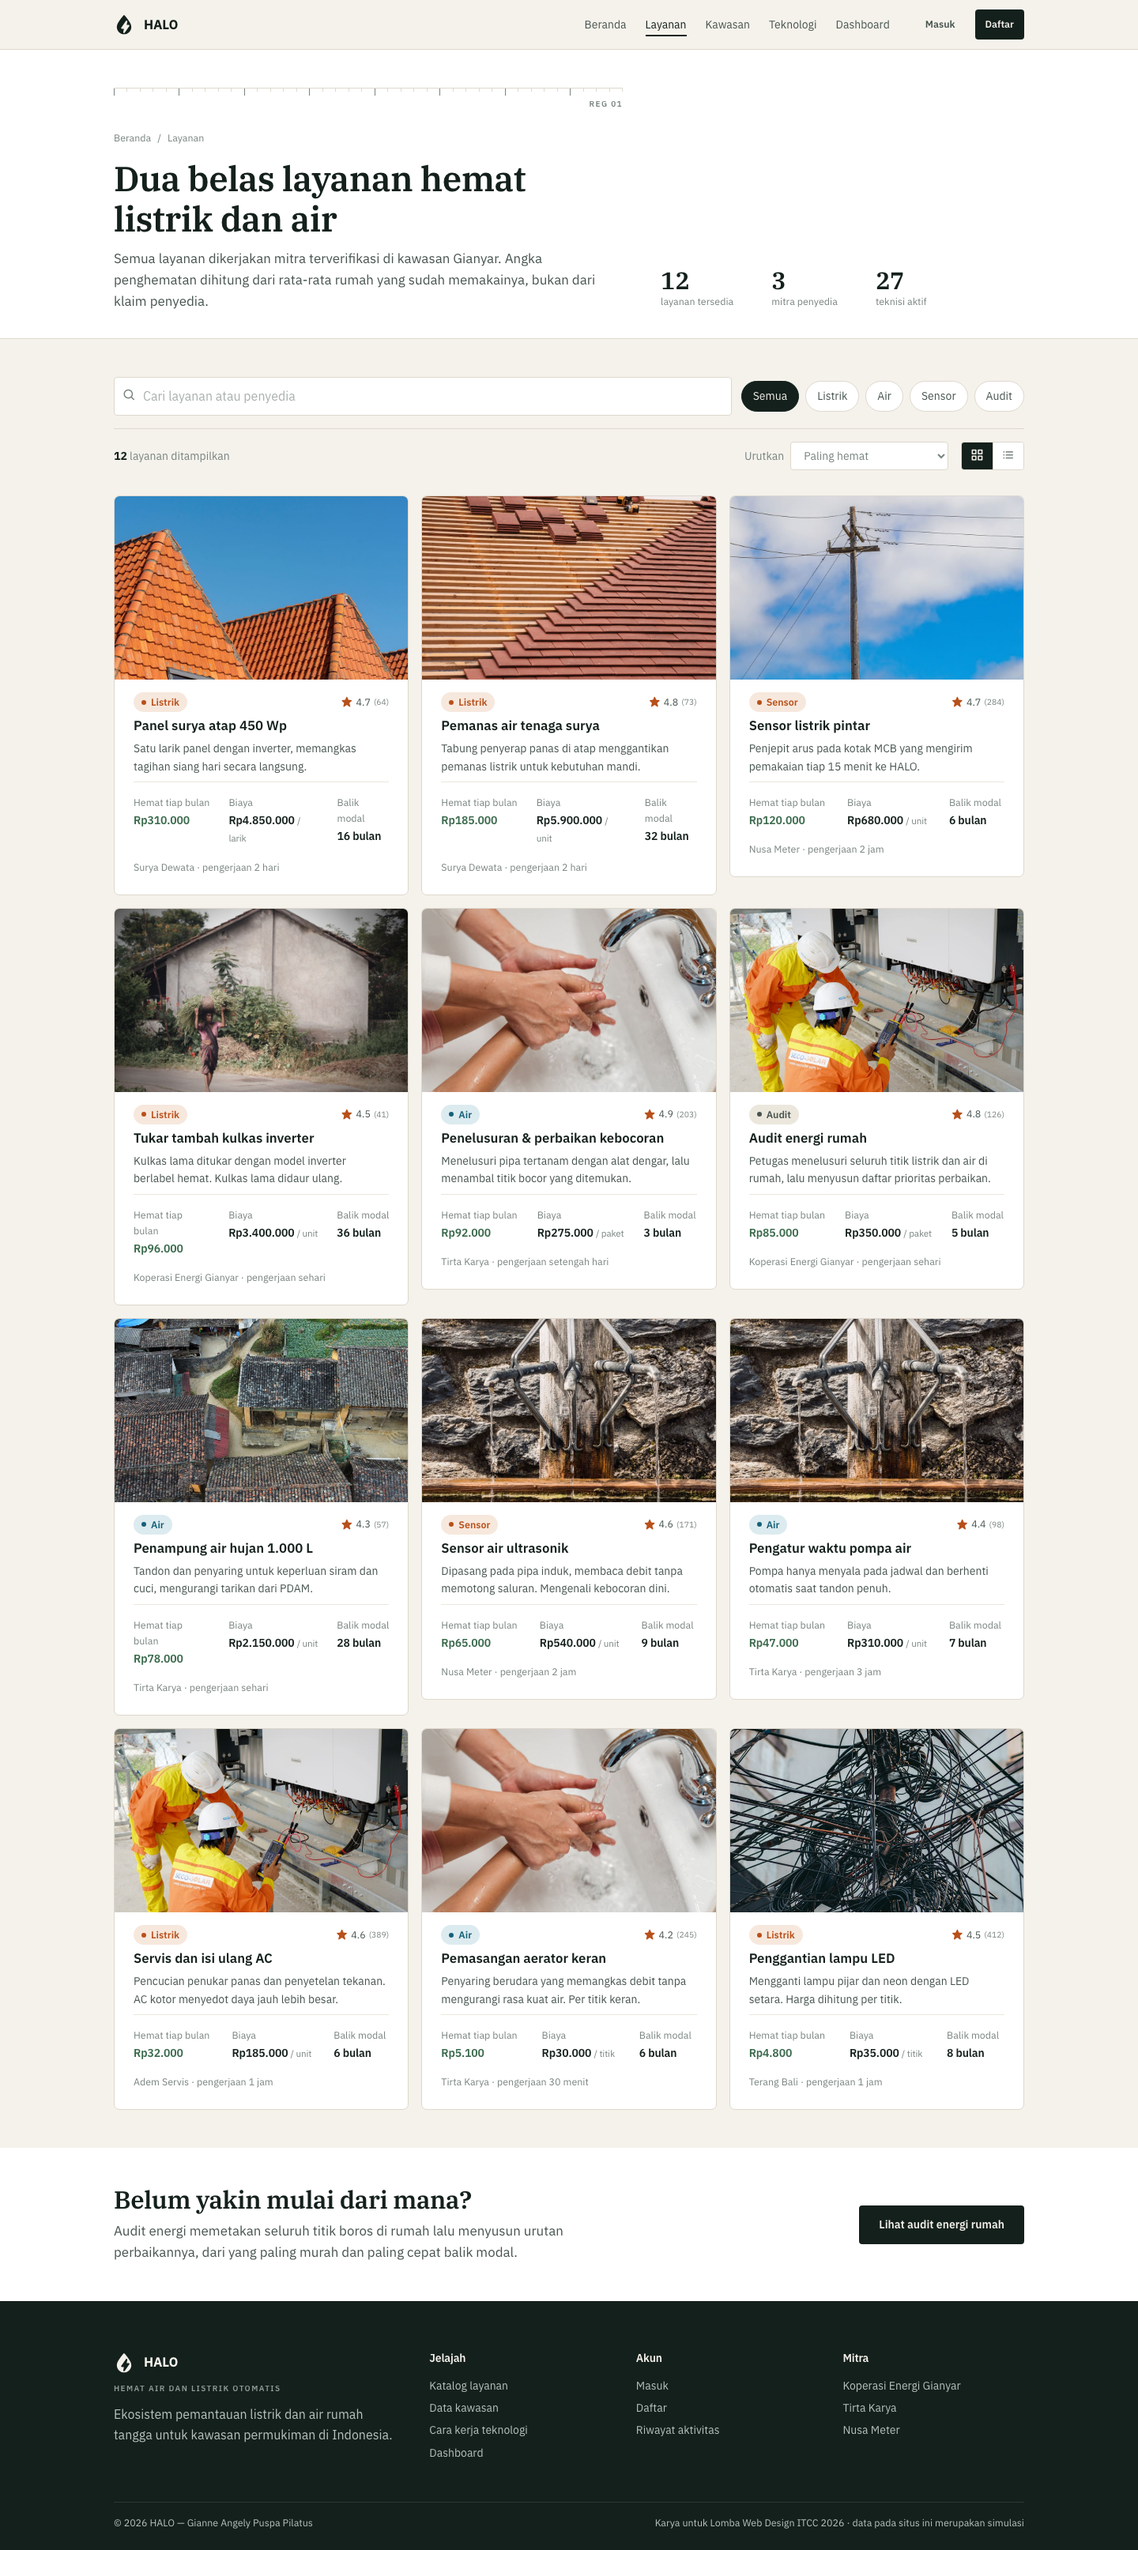
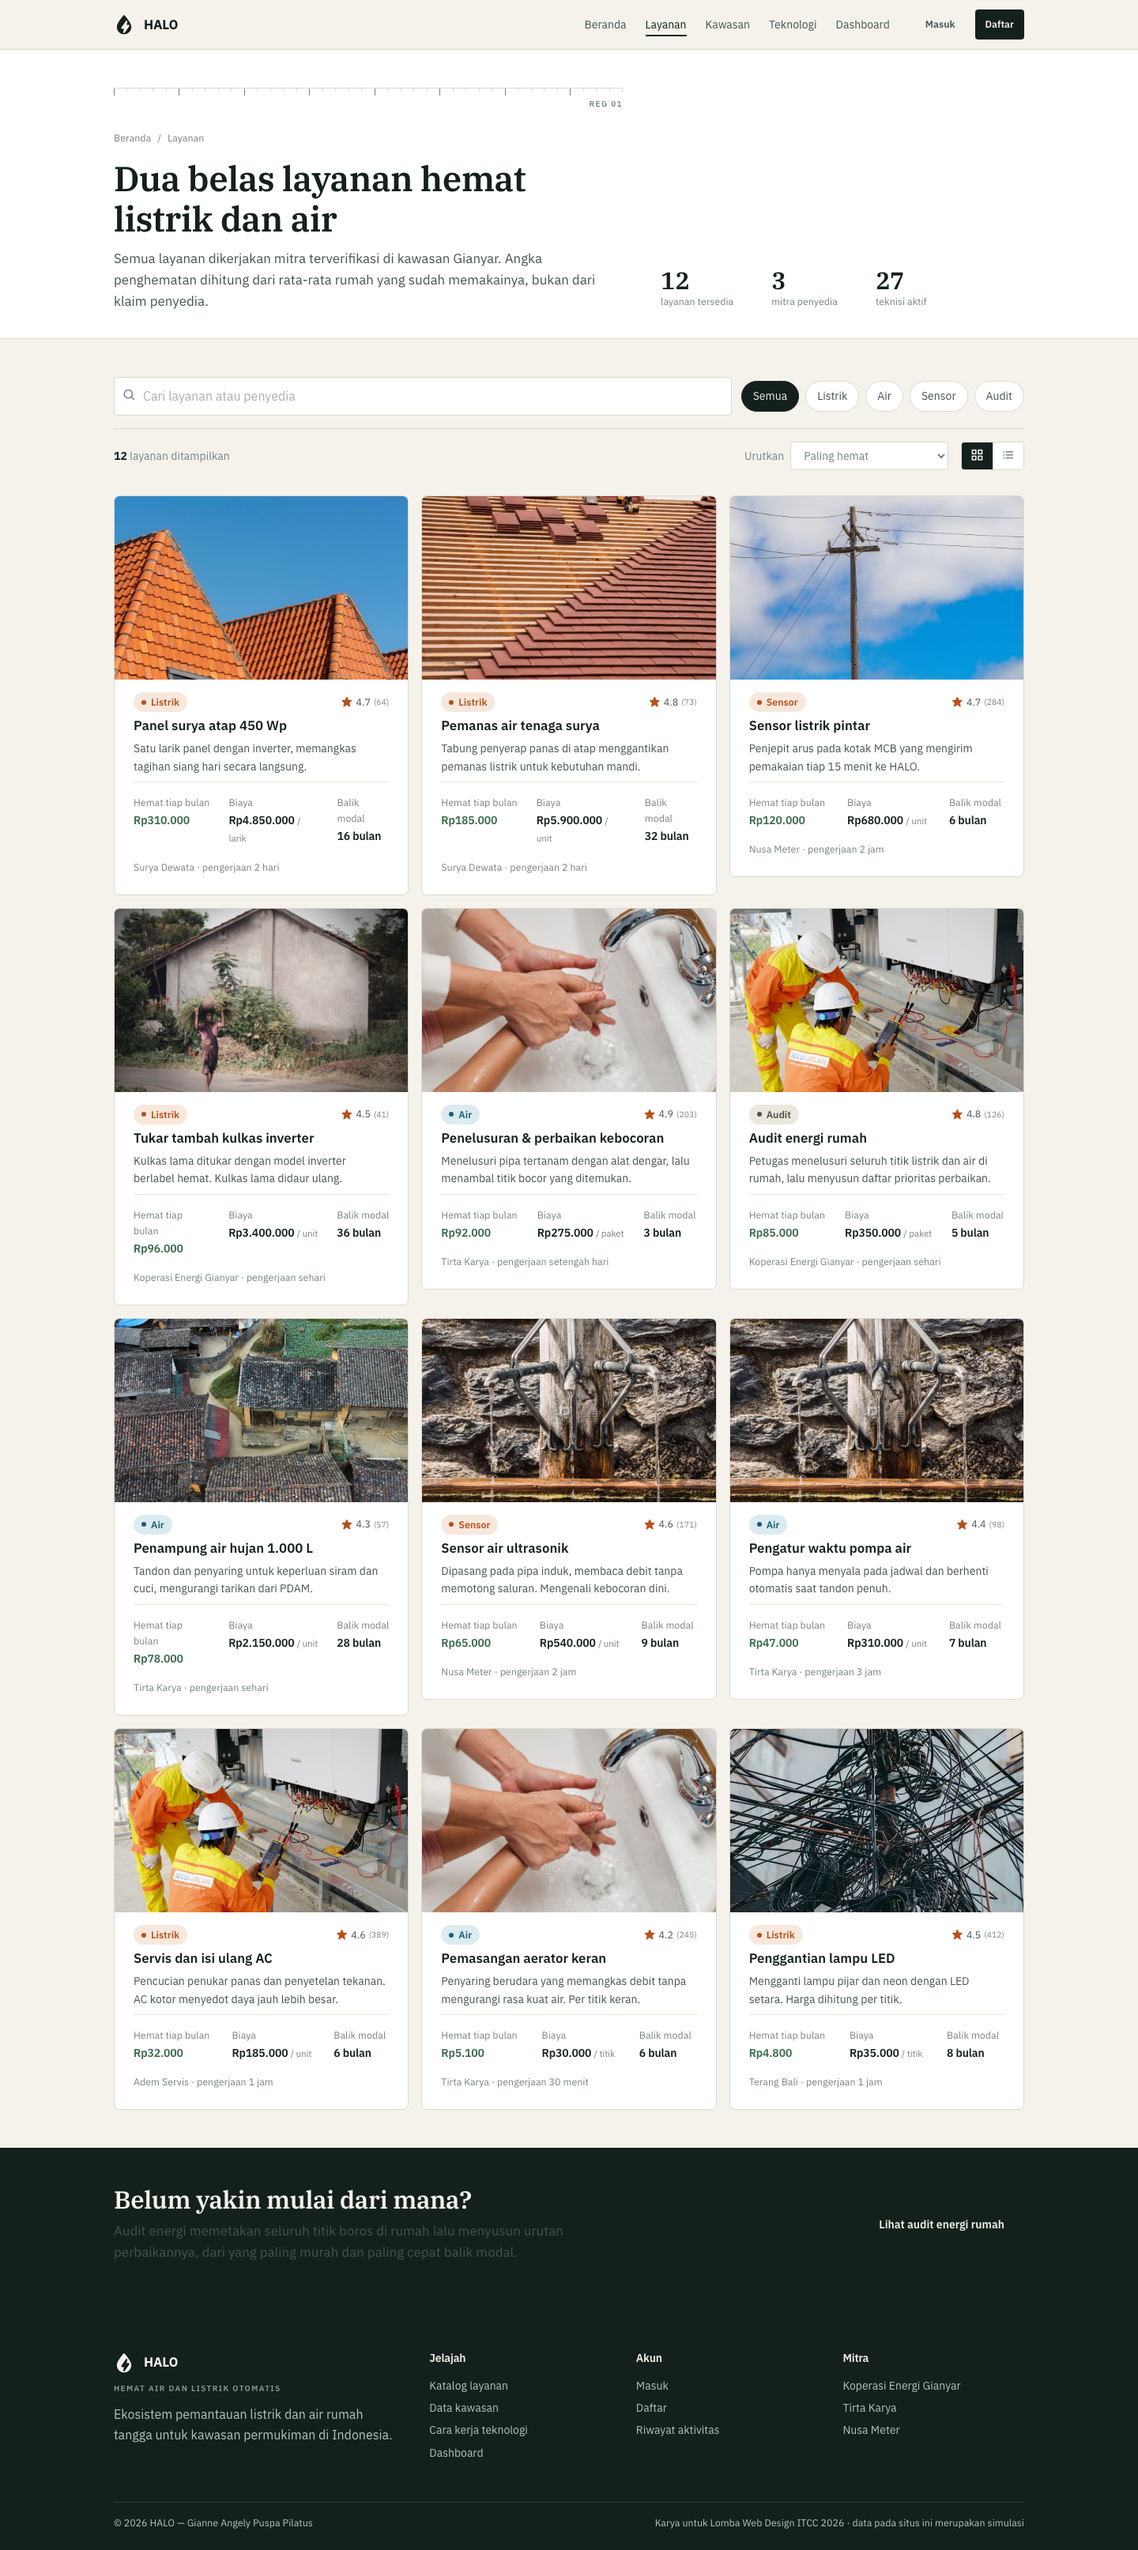
Empat penajaman: cetak, kontras halaman dalam, simulator, aksesibilitas
Cetak: dua bug nyata ditemukan lewat uji cetak ke PDF. Tautan lompat
ikut tercetak sebagai tombol hitam, dan kalimat 'klik satu baris' yang
tidak ada artinya di kertas. Keduanya sekarang disembunyikan, dan
seluruh rincian jejak dibuka otomatis sehingga cetakan berisi riwayat
utuh, bukan cuma judul barisnya.

Kontras: dashboard, riwayat, layanan, dan detail masing-masing mendapat
satu bagian gelap. Sebelumnya lima halaman rata krem dari atas sampai
bawah sementara beranda punya dua titik kontras.

Simulator: dipindah ke latar gelap dan balik modal dinaikkan jadi angka
utama, karena itu satu-satunya angka yang dipakai orang memutuskan.
Sekalian membetulkan angka yang patah di tengah akibat
overflow-wrap: anywhere.

Aksesibilitas: kotak slider dari 4px jadi 24px supaya gampang dikenai
jari, tombol pengurut tabel dinaikkan ke 26px, urutan judul katalog
diperbaiki, dan tautan galeri diberi label.

Changed region(s): [[0.0, 0.8367, 1.0, 0.9297]]

diff --git a/WD_MAHASISWA_Gianne Angely Puspa Pilatus_ITCC 2026/Gianne Angely Puspa Pilatus_Website/css/detail.css b/WD_MAHASISWA_Gianne Angely Puspa Pilatus_ITCC 2026/Gianne Angely Puspa Pilatus_Website/css/detail.css
@@ -31,11 +31,21 @@
 .geser-bantu { font-size: var(--fs-xs); color: var(--ink-3); margin-top: 6px; }
 
 /* Pengatur geser digambar sendiri supaya seragam antar peramban */
-input[type="range"] { -webkit-appearance: none; appearance: none; width: 100%; height: 4px; background: var(--line); border-radius: 2px; }
+/* Kotak slider dibuat setinggi 24px supaya gampang dikenai jari,
+   sementara relnya tetap tipis lewat penggayaan track. */
+input[type="range"] {
+  -webkit-appearance: none; appearance: none;
+  width: 100%; height: 24px; background: transparent; cursor: pointer;
+}
+input[type="range"]::-webkit-slider-runnable-track {
+  height: 4px; background: var(--line); border-radius: 2px;
+}
+input[type="range"]::-moz-range-track { height: 4px; background: var(--line); border-radius: 2px; }
 input[type="range"]::-webkit-slider-thumb {
   -webkit-appearance: none; appearance: none; width: 18px; height: 18px; border-radius: 50%;
   background: var(--ink); border: 3px solid var(--surface); box-shadow: var(--shadow-2); cursor: grab;
   transition: transform .13s var(--ease);
+  margin-top: -7px;              /* menengahkan bulatan pada rel 4px */
 }
 input[type="range"]::-webkit-slider-thumb:hover { transform: scale(1.15); }
 input[type="range"]::-webkit-slider-thumb:active { cursor: grabbing; }
@@ -94,7 +104,9 @@ input[type="range"]:focus-visible { outline-offset: 6px; }
 
 /* Angka hasil simulasi bisa jadi panjang (jutaan rupiah),
    jadi ukurannya menyesuaikan lebar kotak. */
-.sim-angka .panel-angka { font-size: clamp(1.15rem, 1rem + .9vw, 1.5rem); overflow-wrap: anywhere; }
+/* Angka tidak boleh patah di tengah. Kolomnya yang menyesuaikan,
+   bukan angkanya yang dipotong. */
+.sim-angka .panel-angka { font-size: clamp(1.05rem, .95rem + .5vw, 1.35rem); white-space: nowrap; }
 .sim-angka .panel-nama { min-height: 2.2em; display: flex; align-items: flex-start; }
 
 /* Kolom kanan jauh lebih pendek daripada kolom kiri, jadi dibuat
@@ -106,3 +118,33 @@ input[type="range"]:focus-visible { outline-offset: 6px; }
   .kolom-berat > .sisi { align-self: stretch; }
   .sisi-lekat { position: sticky; top: 78px; }
 }
+
+/* ---------- Simulator versi gelap ----------
+   Balik modal dijadikan angka utama karena itu satu-satunya angka
+   yang benar-benar dipakai orang untuk memutuskan. */
+.simulasi .geser label { color: #c3ccc8; }
+.simulasi .geser label strong { color: var(--paper); }
+.simulasi .geser-bantu, .simulasi .sim-catatan { color: #7d8b85; }
+.simulasi input[type="range"]::-webkit-slider-runnable-track { background: #2c3b36; }
+.simulasi input[type="range"]::-moz-range-track { background: #2c3b36; }
+.simulasi input[type="range"]::-webkit-slider-thumb { background: var(--paper); border-color: var(--ink); }
+.simulasi input[type="range"]::-moz-range-thumb { background: var(--paper); border-color: var(--ink); }
+
+.sim-hasil { grid-template-columns: minmax(0, 1fr); }
+.sim-utama {
+  background: #1b2a26; border-radius: var(--r-sm);
+  padding: var(--s5); border-left: 3px solid var(--listrik);
+}
+.sim-utama .satuan { color: #8f9c97; }
+.sim-besar {
+  font-family: 'Plex Serif', Georgia, serif; font-weight: 600;
+  font-size: clamp(2.4rem, 1.4rem + 3vw, 3.6rem); line-height: 1;
+  color: var(--paper); margin-top: 6px; letter-spacing: -.02em;
+}
+.simulasi .sim-angka { background: #1b2a26; }
+.simulasi .sim-angka .panel-nama { color: #7d8b85; }
+.simulasi .sim-angka .panel-angka { color: var(--paper); }
+.simulasi .hemat-warna { color: #7fb894; }
+
+.simulasi .berubah { animation: kedipGelap .45s var(--ease); }
+@keyframes kedipGelap { 0% { background: #24382f; } 100% { background: #1b2a26; } }

diff --git a/WD_MAHASISWA_Gianne Angely Puspa Pilatus_ITCC 2026/Gianne Angely Puspa Pilatus_Website/css/halaman.css b/WD_MAHASISWA_Gianne Angely Puspa Pilatus_ITCC 2026/Gianne Angely Puspa Pilatus_Website/css/halaman.css
@@ -43,7 +43,7 @@
 .tabel tbody tr:hover { background: var(--paper); }
 .tabel tbody tr:last-child td { border-bottom: none; }
 .tabel .kanan { text-align: right; }
-.tabel-urut { display: inline-flex; align-items: center; gap: 4px; }
+.tabel-urut { display: inline-flex; align-items: center; gap: 4px; min-height: 26px; padding-block: 2px; }
 .tabel-urut i { opacity: .35; font-size: .95rem; }
 .tabel-urut[aria-sort] i { opacity: 1; }
 
@@ -131,3 +131,39 @@
   .tab-rak { flex-wrap: wrap; gap: var(--s4) var(--s5); overflow-x: visible; padding-bottom: var(--s2); }
   .tab-rak button { padding-block: var(--s2); }
 }
+
+/* ============================================================
+   Kotak gelap
+   Dipakai untuk satu bagian terpenting di tiap halaman dalam,
+   supaya halaman punya titik berhenti dan tidak rata krem dari
+   atas sampai bawah. Warnanya menandai arti, bukan hiasan:
+   yang gelap adalah bagian yang paling perlu ditindaklanjuti.
+   ============================================================ */
+.kotak-gelap { background: var(--ink); border-color: var(--ink); }
+.kotak-gelap .kotak-kepala h2,
+.kotak-gelap .kotak-kepala h3 { color: var(--paper); }
+.kotak-gelap .kotak-kepala p { color: #8f9c97; }
+.kotak-gelap .satuan, .kotak-gelap .panel-nama { color: #7d8b85; }
+.kotak-gelap .gr-keterangan, .kotak-gelap .gr-legenda { color: #8f9c97; }
+.kotak-gelap .gr-bantu { stroke: #2c3b36; }
+.kotak-gelap .gr-sumbu { fill: #7d8b85; }
+.kotak-gelap .gr-satuan { fill: #7d8b85; }
+.kotak-gelap .tabel-bungkus { background: transparent; border-color: #2c3b36; }
+.kotak-gelap .btn-garis { background: transparent; border-color: #46534e; color: var(--paper); }
+.kotak-gelap .btn-garis:hover { border-color: var(--paper); }
+.kotak-gelap .btn-utama { background: var(--paper); color: var(--ink); }
+.kotak-gelap .btn-utama:hover { background: #fff; }
+.kotak-gelap .sel-angka { color: var(--paper); }
+.kotak-gelap .alat-unit { color: #8f9c97; }
+.kotak-gelap .sel-kaki { color: #8f9c97; }
+
+/* Kartu peringatan di dalam kotak gelap */
+.kotak-gelap .an { background: #1b2a26; border-color: #2c3b36; }
+.kotak-gelap .an-tinggi { background: #2a1a15; border-left-color: var(--waspada); }
+.kotak-gelap .an h3 { color: var(--paper); }
+.kotak-gelap .an-alasan { color: #b9c4bf; }
+.kotak-gelap .an-kode, .kotak-gelap .an-dampak span { color: #7d8b85; }
+.kotak-gelap .an-dampak strong { color: var(--paper); }
+.kotak-gelap .an-ikon { color: #8f9c97; }
+.kotak-gelap .an-tinggi .an-ikon { color: #e0755a; }
+.kotak-gelap .pil-netral { background: #2c3b36; color: #b9c4bf; }

diff --git a/WD_MAHASISWA_Gianne Angely Puspa Pilatus_ITCC 2026/Gianne Angely Puspa Pilatus_Website/pages/detail-layanan.html b/WD_MAHASISWA_Gianne Angely Puspa Pilatus_ITCC 2026/Gianne Angely Puspa Pilatus_Website/pages/detail-layanan.html
@@ -89,7 +89,7 @@
         </div>
 
         <!-- ---------- Simulasi hemat ---------- -->
-        <div class="kotak simulasi">
+        <div class="kotak kotak-gelap simulasi">
           <div class="kotak-kepala">
             <div>
               <h2>Hitung sendiri untung ruginya</h2>
@@ -115,6 +115,10 @@
             </div>
 
             <div class="sim-hasil">
+              <div class="sim-utama">
+                <p class="satuan">Balik modal dalam</p>
+                <p class="sim-besar ukur" id="hasilBalik">3 bulan</p>
+              </div>
               <div class="sim-angka">
                 <p class="panel-nama">Hemat tiap bulan</p>
                 <p class="panel-angka hemat-warna tnum" id="hasilBulan">Rp92.000</p>
@@ -123,12 +127,8 @@
                 <p class="panel-nama">Hemat setahun</p>
                 <p class="panel-angka tnum" id="hasilTahun">Rp1.104.000</p>
               </div>
-              <div class="sim-angka">
-                <p class="panel-nama">Balik modal</p>
-                <p class="panel-angka tnum" id="hasilBalik">3 bulan</p>
-              </div>
-              <div class="sim-angka">
-                <p class="panel-nama">Selisih bersih 5 tahun</p>
+              <div class="sim-angka sim-lebar">
+                <p class="panel-nama">Selisih bersih setelah lima tahun</p>
                 <p class="panel-angka tnum" id="hasilLima">Rp5.245.000</p>
               </div>
             </div>

diff --git a/WD_MAHASISWA_Gianne Angely Puspa Pilatus_ITCC 2026/Gianne Angely Puspa Pilatus_Website/css/style.css b/WD_MAHASISWA_Gianne Angely Puspa Pilatus_ITCC 2026/Gianne Angely Puspa Pilatus_Website/css/style.css
@@ -119,6 +119,12 @@ h3 { font-size: var(--fs-h3); font-family: 'Plex Sans', sans-serif; font-weight:
 }
 .lewati:focus { transform: translateY(0); outline: 2px solid var(--air); outline-offset: 2px; }
 
+/* Terbaca pembaca layar, tidak terlihat di layar */
+.visually-hidden {
+  position: absolute; width: 1px; height: 1px; overflow: hidden;
+  clip: rect(0 0 0 0); clip-path: inset(50%); white-space: nowrap;
+}
+
 /* ---------- Tata letak ---------- */
 .wrap { width: 100%; max-width: var(--wrap); margin-inline: auto; padding-inline: var(--s5); }
 .wrap-sempit { max-width: var(--wrap-narrow); }
@@ -303,8 +309,15 @@ h3 { font-size: var(--fs-h3); font-family: 'Plex Sans', sans-serif; font-weight:
 
 /* ---------- Cetak ---------- */
 @media print {
-  .bilah, .kaki, .toast-rak, #muat, .btn { display: none !important; }
+  /* Yang hanya berguna di layar tidak ikut tercetak: bilah atas,
+     kaki halaman, tombol, tautan lompat, pita ukur, dan pemberitahuan. */
+  .bilah, .kaki, .toast-rak, #muat, .btn, .lewati, .rel-tik,
+  .tab-rak, .aj-panah, .hanya-layar { display: none !important; }
   body { background: #fff; }
+  /* Baris pengajuan dibuka semua supaya kertasnya berisi riwayat utuh */
+  .aj-isi[hidden] { display: block !important; }
+  .aj-bukti { display: none; }
+  a[href]::after { content: ''; }
   .kartu { break-inside: avoid; border-color: #ccc; }
 }
 

diff --git a/WD_MAHASISWA_Gianne Angely Puspa Pilatus_ITCC 2026/Gianne Angely Puspa Pilatus_Website/js/riwayat.js b/WD_MAHASISWA_Gianne Angely Puspa Pilatus_ITCC 2026/Gianne Angely Puspa Pilatus_Website/js/riwayat.js
@@ -14,13 +14,16 @@ document.addEventListener('DOMContentLoaded', function () {
 
   /* ---------- Judul menyesuaikan peran yang sedang masuk ---------- */
   const pengguna = Sesi.aktif();
+  /* Kalimat pengantar diganti lewat innerHTML supaya penanda
+     "hanya di layar" tidak ikut hilang. */
   if (pengguna && pengguna.peran === 'Teknisi') {
     document.getElementById('judulRiwayat').textContent = 'Pekerjaan yang ditugaskan';
     document.getElementById('subRiwayat').textContent =
       'Daftar pekerjaan yang sudah lolos verifikasi pengelola kawasan dan masuk ke antreanmu, lengkap dengan temuan sensor yang menjadi dasarnya.';
   } else if (pengguna) {
-    document.getElementById('subRiwayat').textContent =
-      'Halo ' + pengguna.nama.split(' ')[0] + '. Setiap pengajuan berjalan melewati verifikasi pengelola kawasan dan penugasan teknisi sebelum hasilnya diukur ulang oleh sensor yang sama.';
+    document.getElementById('subRiwayat').innerHTML =
+      'Halo ' + pengguna.nama.split(' ')[0] + '. Setiap pengajuan berjalan melewati verifikasi pengelola kawasan dan penugasan teknisi sebelum hasilnya diukur ulang oleh sensor yang sama.' +
+      '<span class="hanya-layar"> Klik satu baris untuk melihat jejaknya.</span>';
   }
 
   /* ---------- Jejak lima tahap ----------

diff --git a/WD_MAHASISWA_Gianne Angely Puspa Pilatus_ITCC 2026/Gianne Angely Puspa Pilatus_Website/pages/riwayat.html b/WD_MAHASISWA_Gianne Angely Puspa Pilatus_ITCC 2026/Gianne Angely Puspa Pilatus_Website/pages/riwayat.html
@@ -49,7 +49,7 @@
         <h1 id="judulRiwayat">Riwayat aktivitas</h1>
         <p class="pengantar" id="subRiwayat">
           Setiap pengajuan berjalan melewati verifikasi pengelola kawasan dan penugasan teknisi
-          sebelum hasilnya diukur ulang oleh sensor yang sama. Klik satu baris untuk melihat jejaknya.
+          sebelum hasilnya diukur ulang oleh sensor yang sama.<span class="hanya-layar"> Klik satu baris untuk melihat jejaknya.</span>
         </p>
       </div>
       <button class="btn btn-garis" id="tombolCetak"><i class="bx bx-printer"></i> Cetak ringkasan</button>
@@ -91,7 +91,7 @@
         </div>
       </div>
 
-      <div class="kotak">
+      <div class="kotak kotak-gelap">
         <div class="kotak-kepala">
           <div>
             <h2>Penghematan yang menumpuk</h2>

diff --git a/WD_MAHASISWA_Gianne Angely Puspa Pilatus_ITCC 2026/Gianne Angely Puspa Pilatus_Website/index.html b/WD_MAHASISWA_Gianne Angely Puspa Pilatus_ITCC 2026/Gianne Angely Puspa Pilatus_Website/index.html
@@ -421,7 +421,7 @@
           </ul>
         </div>
         <div class="skala-panah" aria-hidden="true">
-          <svg viewBox="0 0 60 24" fill="none"><path d="M2 12h52M46 5l8 7-8 7" stroke="var(--ink-3)" stroke-width="2" stroke-linecap="round" stroke-linejoin="round"/></svg>
+          <svg viewBox="0 0 60 24" fill="none" aria-hidden="true"><path d="M2 12h52M46 5l8 7-8 7" stroke="var(--ink-3)" stroke-width="2" stroke-linecap="round" stroke-linejoin="round"/></svg>
         </div>
         <div class="skala-sisi skala-sisi-besar">
           <span class="satuan">Kalau pola yang sama berjalan di satu persen rumah tangga Indonesia</span>

diff --git a/WD_MAHASISWA_Gianne Angely Puspa Pilatus_ITCC 2026/Gianne Angely Puspa Pilatus_Website/pages/layanan.html b/WD_MAHASISWA_Gianne Angely Puspa Pilatus_ITCC 2026/Gianne Angely Puspa Pilatus_Website/pages/layanan.html
@@ -97,6 +97,7 @@
         </div>
       </div>
 
+      <h2 class="visually-hidden">Daftar layanan yang tersedia</h2>
       <div class="kl-kisi" id="kisiLayanan">
       <article class="kl" data-id="audit-rumah" data-kategori="audit" data-nama="audit energi rumah koperasi energi gianyar" data-hemat="85000" data-biaya="350000" data-balik="5">
         <a href="detail-layanan.html?id=audit-rumah">
@@ -308,7 +309,7 @@
     </div>
   </section>
 
-  <section class="bagian-rapat putih ajak">
+  <section class="bagian-rapat gelap ajak">
     <div class="wrap ajak-kisi">
       <div>
         <h2>Belum yakin mulai dari mana?</h2>

diff --git a/WD_MAHASISWA_Gianne Angely Puspa Pilatus_ITCC 2026/Gianne Angely Puspa Pilatus_Website/js/detail.js b/WD_MAHASISWA_Gianne Angely Puspa Pilatus_ITCC 2026/Gianne Angely Puspa Pilatus_Website/js/detail.js
@@ -51,7 +51,8 @@ document.addEventListener('DOMContentLoaded', function () {
   const kotakGaleri = document.getElementById('galeri');
   if (kotakGaleri && foto) {
     kotakGaleri.innerHTML = foto.map(([berkas, alt, ket]) =>
-      '<a href="../assets/img/' + berkas + '" data-fancybox="galeri" data-caption="' + ket + '">' +
+      '<a href="../assets/img/' + berkas + '" data-fancybox="galeri" data-caption="' + ket + '"' +
+      ' aria-label="Perbesar gambar: ' + alt + '">' +
       '<img src="../assets/img/' + berkas + '" alt="' + alt + '" loading="lazy"></a>').join('');
   }
 

diff --git a/WD_MAHASISWA_Gianne Angely Puspa Pilatus_ITCC 2026/Gianne Angely Puspa Pilatus_Website/css/teknologi.css b/WD_MAHASISWA_Gianne Angely Puspa Pilatus_ITCC 2026/Gianne Angely Puspa Pilatus_Website/css/teknologi.css
@@ -107,10 +107,6 @@
 .izin.tidak::before { background: #46534e; }
 .izin.tidak { color: #7d8b85; }
 .gelap .gr-keterangan { color: #7d8b85; }
-.visually-hidden {
-  position: absolute; width: 1px; height: 1px; overflow: hidden;
-  clip: rect(0 0 0 0); clip-path: inset(50%); white-space: nowrap;
-}
 
 @media (max-width: 700px) {
   .keping { grid-template-columns: 1fr; gap: var(--s4); }

diff --git a/WD_MAHASISWA_Gianne Angely Puspa Pilatus_ITCC 2026/Gianne Angely Puspa Pilatus_Website/pages/dashboard.html b/WD_MAHASISWA_Gianne Angely Puspa Pilatus_ITCC 2026/Gianne Angely Puspa Pilatus_Website/pages/dashboard.html
@@ -134,7 +134,7 @@
       </div>
 
       <!-- ---------- Kejanggalan ---------- -->
-      <div class="kotak">
+      <div class="kotak kotak-gelap">
         <div class="kotak-kepala">
           <div>
             <h2>Kejanggalan yang ditemukan</h2>
